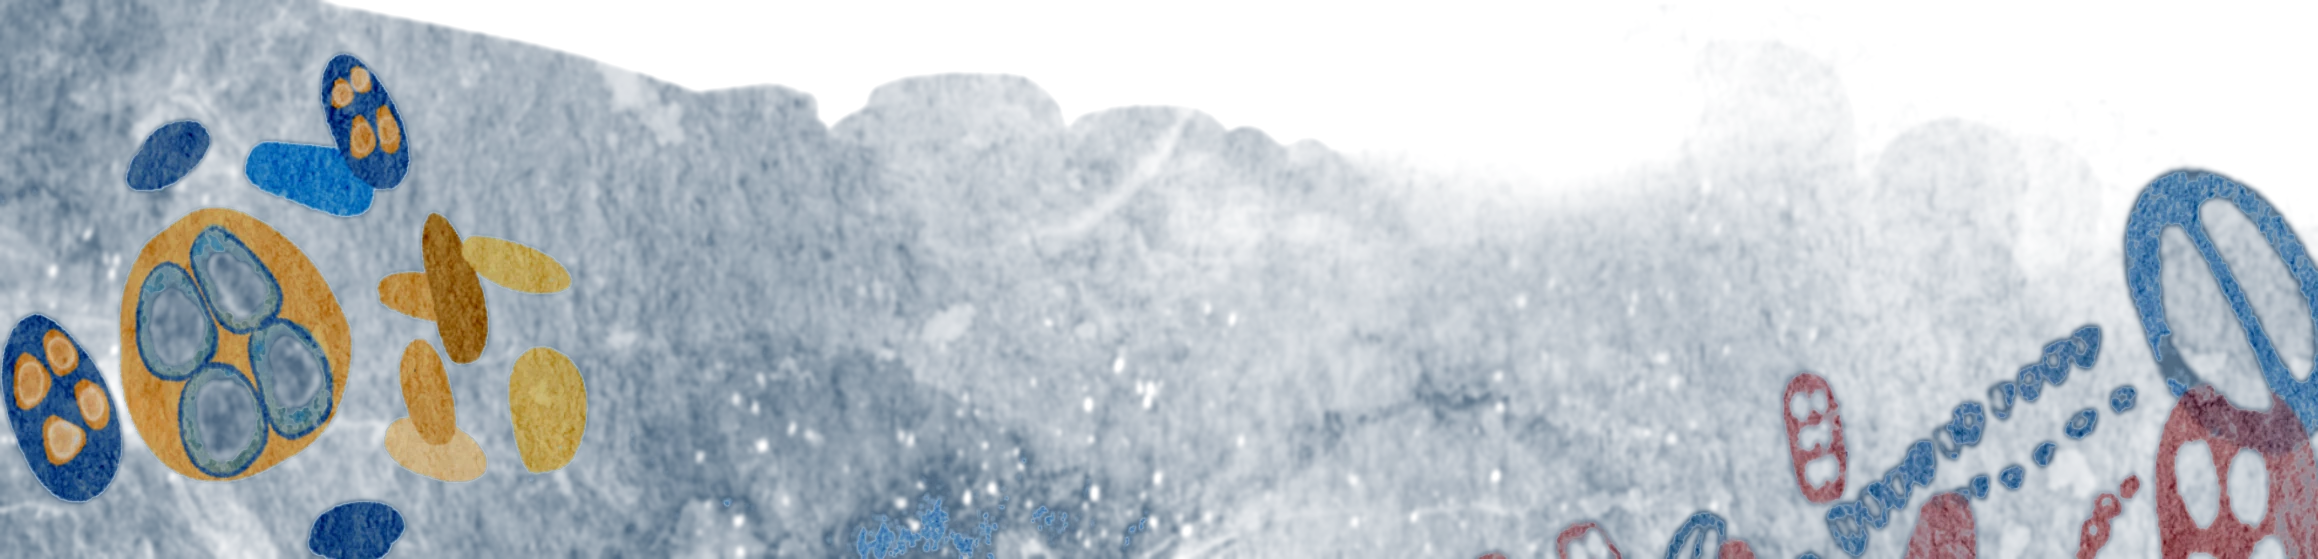
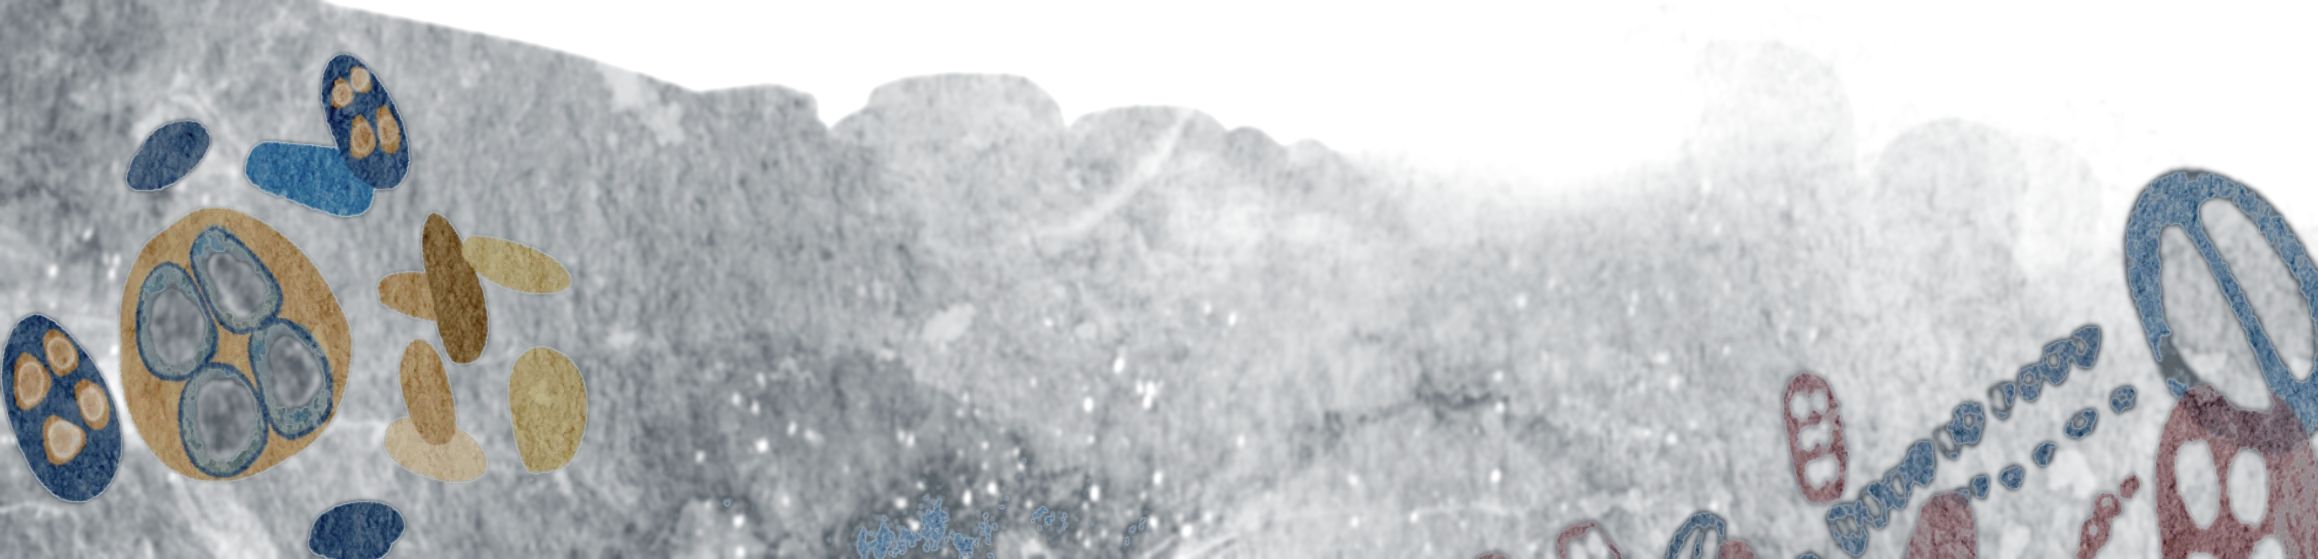
Night mode: calmer watercolor, site teal

diff --git a/index.html b/index.html
@@ -411,8 +411,8 @@
       --ink: #E4E7E1;          /* warm off-white text */
       --muted: #9FAAA5;
       --rule: #2B3431;
-      --link: #7CCBB3;         /* the site's teal, lifted for dark */
-      --link-hover: #A5DECB;
+      --link: #2D9F84;         /* the site's teal (same hue), lightened just enough to read on dark */
+      --link-hover: #40CAA9;
       --accent: #E8845F;
       --wash: #24384A;
     }
